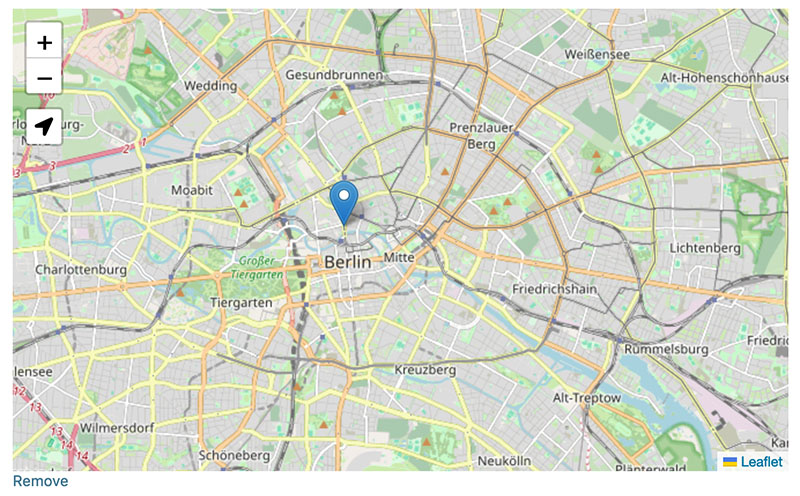
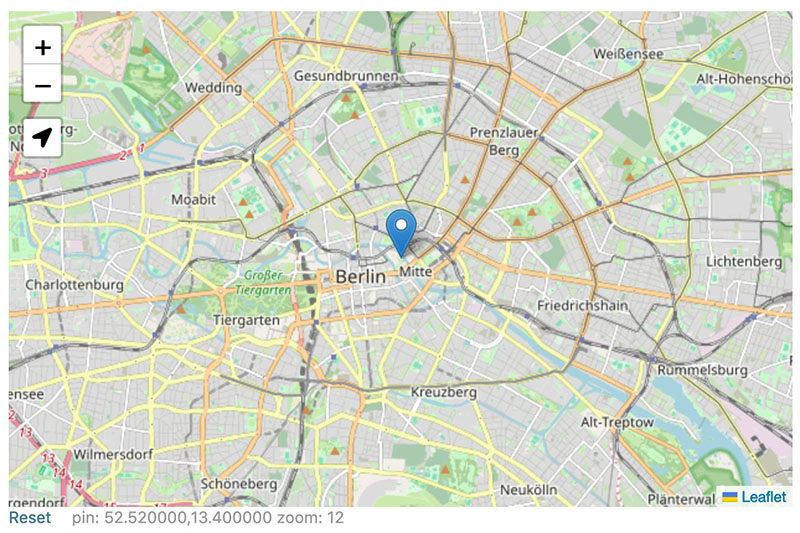
chore: update readme

diff --git a/setup.py b/setup.py
@@ -6,7 +6,7 @@ with open('README.md', 'r') as f:
 setuptools.setup(
     name='django-map-location',
     description='Django Map-Location Field',
-    version='0.9.1',
+    version='0.9.2',
     author='relikd',
     license='MIT',
     long_description=long_description,

diff --git a/README.md b/README.md
@@ -4,6 +4,11 @@ Adds a fully-static location field (Leaflet) to manage location-based data witho
 
 ![screenshot](screenshot.jpg)
 
+Features: 
+- Click on map or drag&drop pin to select location
+- Reset button & use map-center button
+- Display selected location or map center coordinates with zoom level
+
 
 ## Install
 
